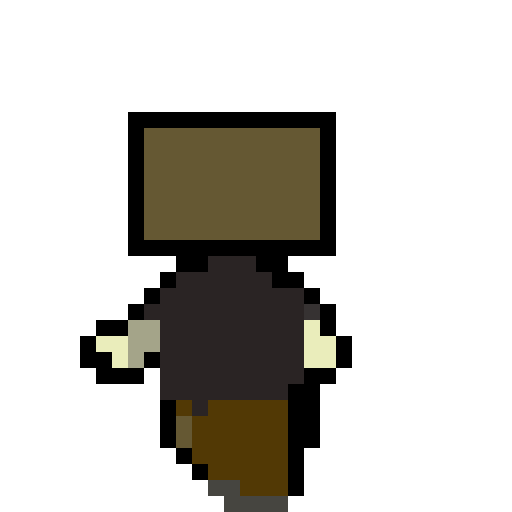
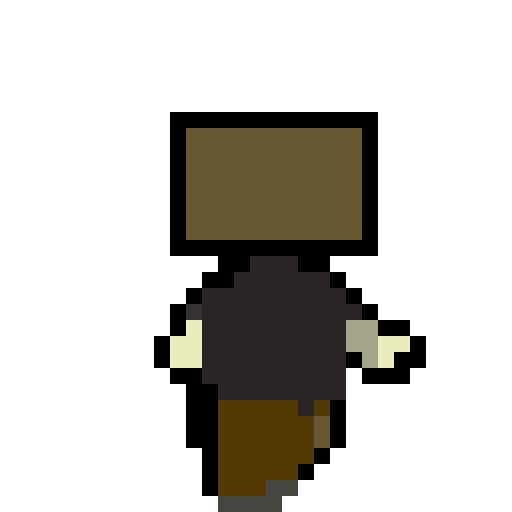
set up sprite animation and began battle manager class

Changed region(s): [[0.1562, 0.5, 0.8438, 1.0], [0.625, 0.2188, 0.75, 0.5], [0.25, 0.2188, 0.375, 0.5]]

diff --git a/AbstractEntity.java b/AbstractEntity.java
@@ -17,6 +17,8 @@ abstract class AbstractEntity {
     protected float health;
     private Move[] moves;
     public BufferedImage image;
+    int spriteCounter = 0;
+    int spriteNum = 1;
     /**
      * @param name      The name of the creature.
      * @param type      The type of creature.
@@ -127,17 +129,40 @@ abstract class AbstractEntity {
     public BufferedImage getImage(){
         switch(this.getDirection()){ //handles the direction that the sprite is facing.
            case "up": 
-               this.image = this.up1;
-               break;
+            if(this.spriteNum == 1)
+                this.image = this.up1;
+            if(this.spriteNum == 2)
+                this.image = this.up2;
+            break;
            case "down":
+            if(this.spriteNum == 1)
                this.image = this.down1;
+            if(this.spriteNum == 2)
+                this.image = this.down2;
                break;
            case "left":
+            if(this.spriteNum == 1)
                this.image = this.left1;
-               break;
+            if(this.spriteNum == 2)
+               this.image = this.left2;   
+            break;
            case "right":
-               this.image = right1;
-               break;
+            if(this.spriteNum == 1)
+               this.image = this.right1;
+            if(this.spriteNum == 2)
+                this.image = this.right2;
+            break;
+           }
+          this.spriteCounter ++; // switches between sprite 1 and 2 for the direction.
+           if(this.spriteCounter > 90){ //serves as an idle animation. The player image
+               //will change every 12 frames.
+               if(this.spriteNum == 1){
+                this.spriteNum = 2 ;
+               }
+               else if(this.spriteNum == 2){
+                this.spriteNum = 1;
+               }
+               this.spriteCounter = 0;
            }
        return this.image;
 
@@ -162,7 +187,6 @@ abstract class AbstractEntity {
 
             image = ImageIO.read(getClass().getResourceAsStream("/assets/" + this.getName() + "/down1.png"));
             this.down1 = uTool.scaleImage(image, Window.tileSize, Window.tileSize);
-
             image = ImageIO.read(getClass().getResourceAsStream("/assets/" + this.getName() + "/down2.png"));
             this.down2 = uTool.scaleImage(image, Window.tileSize, Window.tileSize);
 
@@ -178,6 +202,7 @@ abstract class AbstractEntity {
             image = ImageIO.read(getClass().getResourceAsStream("/assets/" + this.getName() + "/right2.png"));
             this.right2 = uTool.scaleImage(image, Window.tileSize, Window.tileSize);
             
+            System.out.println("Finished loading assets for " + this.getName());
         } catch (IOException e) {
             // TODO Auto-generated catch block
             e.printStackTrace();

diff --git a/Window.java b/Window.java
@@ -67,6 +67,7 @@ public class Window extends JPanel implements Runnable {
     public void setupGame() throws IOException{
         assetSetter.setObject();
         assetSetter.setNPC();
+        assetSetter.setPlayer();
         gameState = playState;
     }
     public void initialize() throws IOException {
@@ -149,8 +150,8 @@ public class Window extends JPanel implements Runnable {
                 nextDrawTime += drawInterval;
                 // pause the game loop so that we only draw 60 times per second
             } catch (InterruptedException e) {
-                // TODO Auto-generated catch block
                 e.printStackTrace();
+                System.err.println("Something went wer");
             }
         }
     } 
@@ -173,7 +174,7 @@ public class Window extends JPanel implements Runnable {
             }
        }
       
-        //NPCS
+        //NPC
         for(int i = 0; i < npc.length; i++){
                 if(npc[i] != null){
                     npc[i].draw(g2);

diff --git a/Player.java b/Player.java
@@ -39,7 +39,6 @@ public class Player extends Entity {
         worldY = Window.tileSize * 21;
         speed = 4;
         this.direction = "down";
-        this.setup();
     }
     public float getMaxHealth(){
         return this.maxHealth;
@@ -83,17 +82,7 @@ public class Player extends Entity {
             }
         }
 
-        spriteCounter ++; // switches between sprite 1 and 2 for the direction.
-        if(spriteCounter > 12){ //serves as an idle animation. The player image
-            //will change every 12 frames.
-            if(spriteNumber == 1){
-                spriteNumber = 2 ;
-            }
-            else if(spriteNumber == 2){
-                spriteNumber = 1;
-            }
-            spriteNumber = 0;
-        }
+
     }
     public void draw(Graphics2D g2){
         g2.drawImage(this.getImage(), screenX,screenY,Window.tileSize,Window.tileSize,null);

diff --git a/BattleManager.java b/BattleManager.java
@@ -3,5 +3,15 @@ public class BattleManager {
     public Player player = Window.player;
     public KeyHandler keyH = Window.keyH;
     private boolean isPlayerTurn;
+
+
+    public void playerTurn(){
+        boolean isPlayerTurn = true;
+        
+
+    }
+    
+
+
     
 }

diff --git a/AssetSetter.java b/AssetSetter.java
@@ -37,4 +37,9 @@ public class AssetSetter {
         window.npc[0].worldX = Window.tileSize * 23;
         window.npc[0].worldY = Window.tileSize * 20;
     }
+
+    public void setPlayer(){
+
+        Window.player.setup();
+    }
 }
